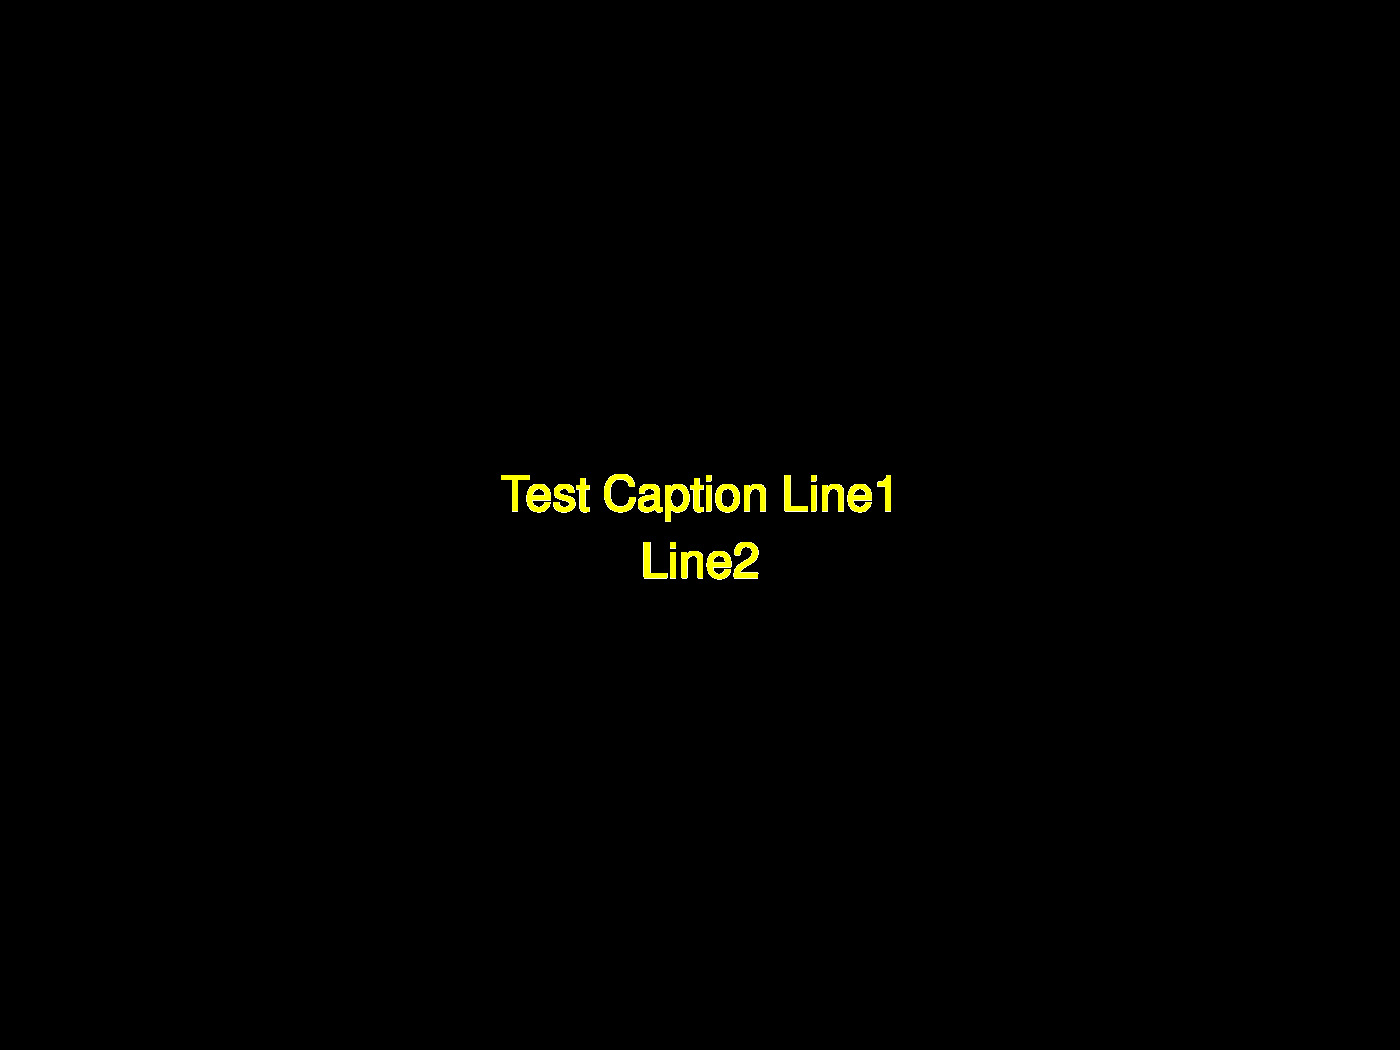
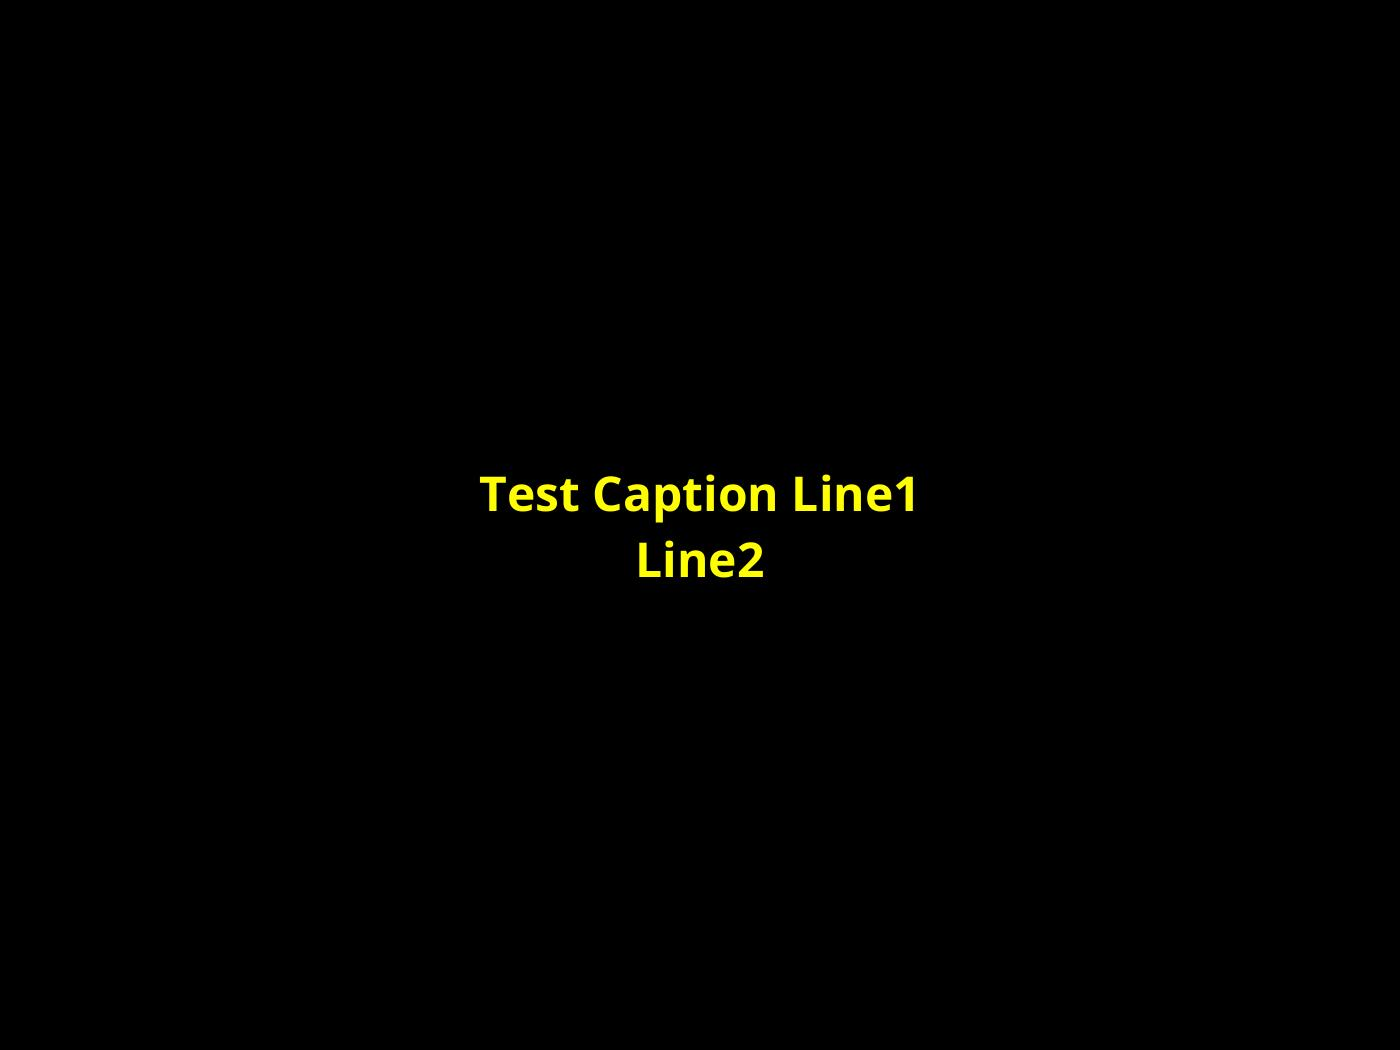
Update to handle using maven at command line.
Also generate manifest for the jar file.

Changed region(s): [[0.3379, 0.4267, 0.6757, 0.5486]]

diff --git a/src/main/java/com/github/jimorc/flexishowbuilder/TitleImage.java b/src/main/java/com/github/jimorc/flexishowbuilder/TitleImage.java
@@ -1,57 +1,42 @@
 package com.github.jimorc.flexishowbuilder;
 
+import java.awt.image.BufferedImage;
+import java.awt.Graphics2D;
 import java.io.File;
-import java.io.BufferedReader;
 import java.io.IOException;
-import java.io.InputStream;
-import java.io.InputStreamReader;
-import java.io.OutputStream;
-import java.lang.ProcessBuilder;
+
+import javax.imageio.ImageIO;
+
+import javafx.scene.Scene;
+import javafx.scene.image.WritableImage;
+import javafx.embed.swing.SwingFXUtils;
+import javafx.scene.layout.StackPane;
+import javafx.scene.paint.Color;
+import javafx.scene.text.Font;
+import javafx.scene.text.FontWeight;
+import javafx.scene.text.Text;
+import javafx.scene.text.TextAlignment;
+
 
 public class TitleImage {
     private TitleImage() {}
 
-    public static void generateTitleImage(String caption, String imageFileName) throws Exception{
-        String imCommand = "convert -size 1400x1050 -stroke yellow -fill yellow -font Helvetica" +
-            " -pointsize 48 -gravity Center caption:\"" + caption;
-        imCommand += "\" -fill black -opaque white " + imageFileName;
-        System.out.println(imCommand);
-        ProcessBuilder builder = new ProcessBuilder();
-        boolean isWindows = System.getProperty("os.name").toLowerCase().startsWith("windows");
-        if (isWindows) {
-            builder.command("cmd.exe", "/c", imCommand);
-        } else {
-            builder.command("bash", "-c", imCommand);
-        }
+    public static void generateTitleImage(String caption, String imageFileName) throws IOException{
+        Text cap = new Text(caption);
+        cap.setFill(Color.YELLOW);
+        cap.setFont(Font.font("System", FontWeight.BLACK, 48));
+        cap.setTextAlignment(TextAlignment.CENTER);
 
-        File locDirFile = new File(System.getProperty("user.dir"));
-        System.out.println(locDirFile.getName());
-        builder.directory(locDirFile);
+        StackPane root = new StackPane(cap);
+        Scene scene = new Scene(root, 1400, 1050);
+        scene.setFill(Color.BLACK);
 
-        Process process = builder.start();
-        OutputStream outputStream = process.getOutputStream();
-        InputStream inputStream = process.getInputStream();
-        InputStream errorStream = process.getErrorStream();
-
-        printStream(inputStream);
-        printStream(errorStream);
-
-        int exitCode = process.waitFor();
-        outputStream.flush();
-        outputStream.close();
-        if (exitCode != 0) {
-            System.err.println("Error: ImageMagick command failed with exit code " + exitCode);
-            throw new Exception("ImageMagick command failed with exit code " + exitCode);
-        }
-    }
-
-        private static void printStream(InputStream inputStream) throws IOException {
-        try(BufferedReader bufferedReader = new BufferedReader(new InputStreamReader(inputStream))) {
-            String line;
-            while((line = bufferedReader.readLine()) != null) {
-                System.out.println(line);
-            }
-        }
+        WritableImage writableImage = scene.snapshot(null);
+        BufferedImage bufferedImage = SwingFXUtils.fromFXImage(writableImage, null);
+        BufferedImage imageRGB = new BufferedImage(bufferedImage.getWidth(), bufferedImage.getHeight(), BufferedImage.OPAQUE);
+        Graphics2D graphics = imageRGB.createGraphics();
+        graphics.drawImage(bufferedImage, 0, 0, null);
+        ImageIO.write(imageRGB, "jpg", new File(imageFileName));
     }
 
 }

diff --git a/src/test/java/com/github/jimorc/flexishowbuilder/TitleImageTests.java b/src/test/java/com/github/jimorc/flexishowbuilder/TitleImageTests.java
@@ -7,24 +7,36 @@ import java.io.RandomAccessFile;
 import java.nio.MappedByteBuffer;
 import java.nio.channels.FileChannel;
 
+import javafx.stage.Stage;
+
 import org.junit.jupiter.api.Test;
+import org.junit.jupiter.api.extension.ExtendWith;
+import org.testfx.api.FxRobot;
+import org.testfx.framework.junit5.ApplicationExtension;
+import org.testfx.framework.junit5.Start;
 
-
+@ExtendWith(ApplicationExtension.class)
 public class TitleImageTests {
-    @Test
-    void testGenerateTitleImage() {
-        try {
+    @Start
+    private void start(Stage stage) {
+       try {
             TitleImage.generateTitleImage("Test Caption Line1\nLine2", "test.jpg");
         } catch (Exception e) {
             fail("Exception thrown: " + e.getMessage());
         }
+    }
+
+    @Test
+    void testGenerateTitleImage(FxRobot robot) {
         Path path1 = Path.of("testing/data/test_image.jpg");
         Path path2 = Path.of("test.jpg");
-        try (RandomAccessFile randomAccessFile1 = new RandomAccessFile(path1.toFile(), "r"); 
-            RandomAccessFile randomAccessFile2 = new RandomAccessFile(path2.toFile(), "r")) {
-            
+        try (RandomAccessFile randomAccessFile1 = new RandomAccessFile(path1.toFile(), "r");
+                RandomAccessFile randomAccessFile2 = new RandomAccessFile(path2.toFile(), "r")) {
+
             FileChannel ch1 = randomAccessFile1.getChannel();
             FileChannel ch2 = randomAccessFile2.getChannel();
+            System.out.println(ch1.size());
+            System.out.println(ch2.size());
             if (ch1.size() != ch2.size()) {
                 fail("Files are not identical size");
             }
@@ -38,7 +50,7 @@ public class TitleImageTests {
         } catch (Exception e) {
             fail("Exception comparing files: " + e.getMessage());
         } finally {
-        // cleanup
+            // cleanup
             Path.of("test.jpg").toFile().delete();
         }
     }

diff --git a/src/main/java/com/github/jimorc/flexishowbuilder/XLSApp.java b/src/main/java/com/github/jimorc/flexishowbuilder/XLSApp.java
@@ -23,24 +23,21 @@ public class XLSApp {
         if (isWindows) {
             builder.command("cmd.exe", "/c", exe + " --version");
         } else {
-            builder.command("bash", "-c", exe + " --version");
+            builder.command("/usr/bin/bash", "-c", exe + " --version");
         }
 
         Process process = builder.start();
         InputStream inputStream = process.getInputStream();
         String result = "";
-        try(BufferedReader bufferedReader = new BufferedReader(new InputStreamReader(inputStream))) {
-            String line;
-            while((line = bufferedReader.readLine()) != null) {
-                result += line;
-            }
-        } catch (Exception e) {
-
-        }
+        BufferedReader bufferedReader = new BufferedReader(new InputStreamReader(inputStream));
         int exitCode = process.waitFor();
         if (exitCode != 0 && exitCode != 127) {
             System.err.println("Error: LibreOffice command failed with exit code " + exitCode);
-         }
+        }
+        String line;
+        while((line = bufferedReader.readLine()) != null) {
+            result += line;
+        }
 
         System.out.println(result);
         boolean found = result.contains(exeName);

diff --git a/src/main/java/com/github/jimorc/flexishowbuilder/InputCSV.java b/src/main/java/com/github/jimorc/flexishowbuilder/InputCSV.java
@@ -87,8 +87,13 @@ public class InputCSV {
                 try {
                     csvFile = InputCSV.getCSVFile();
                 } catch (CSVException csve) {
-                    // in junit tests, we don't want to display a dialog, so we throw an exception
-                   throw new RuntimeException("No CSV file selected.");
+                    // in junit tests, we don't want to display a dialog, so we throw an exception.
+                    // CSVException is thrown when testing in VSCode.
+                    throw new RuntimeException("No CSV file selected.");
+                } catch (UnsatisfiedLinkError ue) {
+                    // in junit tests in maven (mvn test), UnsatisfiedLinkError thrown
+                    // instead of CSVException.
+                    throw new RuntimeException("No CSV file selected.");
                 }
             }
             if (csvFile.isFile()) {

diff --git a/src/test/java/com/github/jimorc/flexishowbuilder/XLSAppTests.java b/src/test/java/com/github/jimorc/flexishowbuilder/XLSAppTests.java
@@ -8,8 +8,8 @@ public class XLSAppTests {
     @Test
     public void testExecutableFound()  {
         boolean found = false;
-        String exe = "bash";
-        String exeName = "bash";
+        String exe = "/usr/bin/bash";
+        String exeName = "GNU bash";
         try {
             boolean isWindows = System.getProperty("os.name").toLowerCase().startsWith("windows");
             if (isWindows) {
